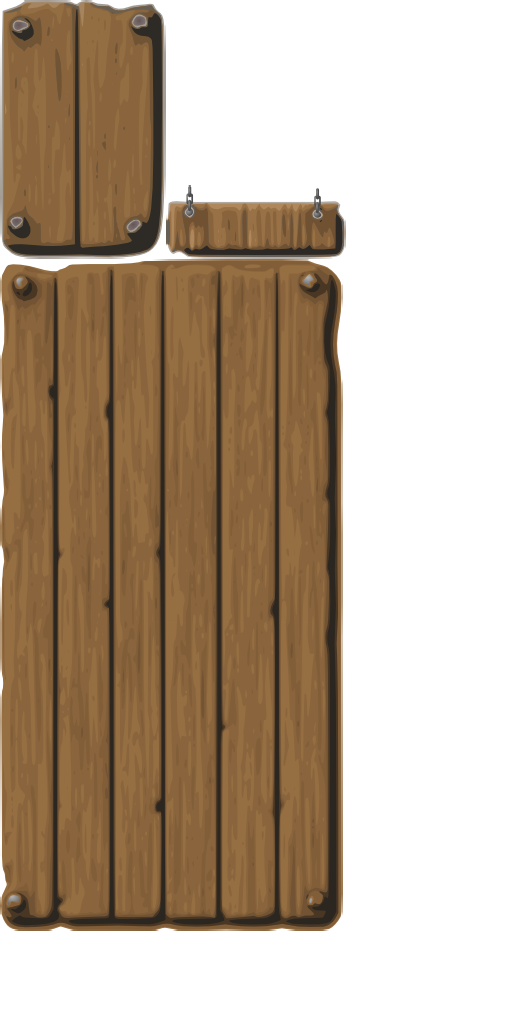
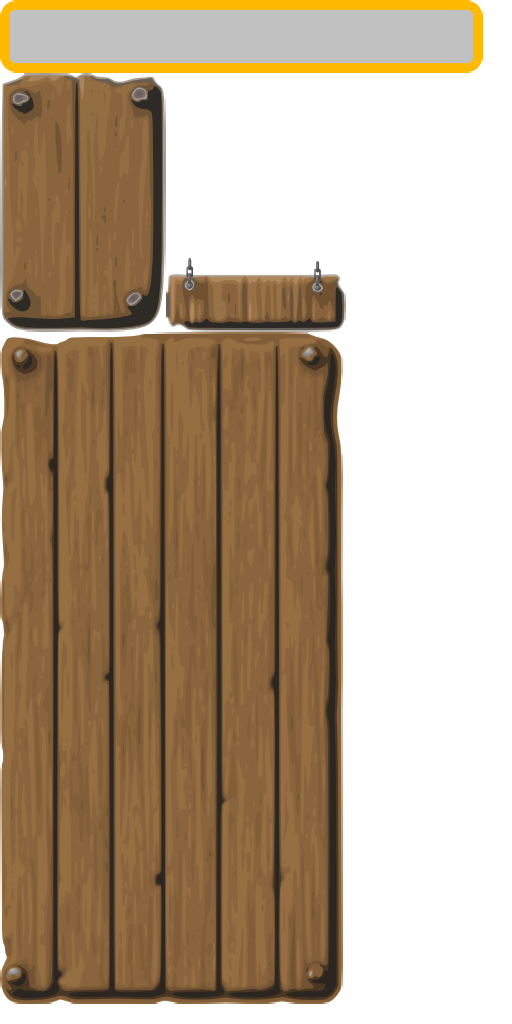
Ajout d'un panel pour afficher les messages en fin de partie. refs #52

diff --git a/puyopuyo-android/src/com/tacoid/puyopuyo/actors/GameOverActor.java b/puyopuyo-android/src/com/tacoid/puyopuyo/actors/GameOverActor.java
@@ -68,11 +68,12 @@ public class GameOverActor extends Group {
 	private Sprite winSprite;
 	private Sprite loseSprite;
 	private Sprite gameOverSprite;
+	private Sprite scorePanelSprite;
 	private GameScreen gameScreen;
 	private SwingMenu menu;
 	private GameOverType type;
 	
-	private int HighScore = 0;
+	private int highScore = 0;
 	private boolean newHighScore = false;
 	private boolean newUnlock = false;
 	
@@ -83,7 +84,7 @@ public class GameOverActor extends Group {
 	
 	
 	public GameOverActor(GameScreen gs, float x, float y) {
-		
+		gameScreen = gs;
 		i18n = I18nManager.getInstance();
 		
 		TextureRegion quitterRegion = PuyoPuyo.getInstance().atlasPlank.findRegion("quitter");
@@ -91,6 +92,11 @@ public class GameOverActor extends Group {
 		winSprite = new Sprite(PuyoPuyo.getInstance().atlasPlank.findRegion("gagne"));
 		loseSprite = new Sprite(PuyoPuyo.getInstance().atlasPlank.findRegion("perdu"));
 		gameOverSprite = new Sprite(PuyoPuyo.getInstance().atlasPlank.findRegion("gameover"));
+		if(gameScreen.getOrientation() == ScreenOrientation.LANDSCAPE) {
+			scorePanelSprite = new Sprite(PuyoPuyo.getInstance().atlasPanelsLandscape.findRegion("score-panel"));
+		} else {
+			scorePanelSprite = new Sprite(PuyoPuyo.getInstance().atlasPanelsPortrait.findRegion("score-panel"));
+		}
 		
 		menu = new SwingMenu(gs.getOrientation());
 		menu.initBegin("gameover");
@@ -104,7 +110,12 @@ public class GameOverActor extends Group {
 		loseSprite.setPosition(x-loseSprite.getWidth()/2, y-loseSprite.getHeight()/2);
 		gameOverSprite.setPosition(x-gameOverSprite.getWidth()/2, y-gameOverSprite.getHeight()/2);
 		
-		gameScreen = gs;
+		if(gameScreen.getOrientation() == ScreenOrientation.LANDSCAPE) {
+			scorePanelSprite.setPosition(x - scorePanelSprite.getWidth() / 2, 450);
+		} else {
+			scorePanelSprite.setPosition(x - scorePanelSprite.getWidth() / 2, 470);
+		}
+		
 		this.type = GameOverType.GAMEOVER;
 		
 		font = PuyoPuyo.getInstance().manager.get("images/font_score.fnt", BitmapFont.class);
@@ -118,9 +129,9 @@ public class GameOverActor extends Group {
 		menu.show("gameover");
 		this.type = type;
 		this.visible = true;
-		this.HighScore = ScoreManager.getInstance().getScore(gameScreen.getGameType());
+		this.highScore = ScoreManager.getInstance().getScore(gameScreen.getGameType());
 		this.newHighScore = false;
-		if(HighScore < gameScreen.getScore() && gameScreen.getGameType() != GameType.VERSUS_IA) {
+		if(highScore < gameScreen.getScore() && gameScreen.getGameType() != GameType.VERSUS_IA) {
 			ScoreManager.getInstance().setScore(gameScreen.getGameType(), gameScreen.getScore());
 			this.newHighScore = true;
 		}
@@ -150,13 +161,13 @@ public class GameOverActor extends Group {
 		super.draw(batch,arg1);
 		if(gameScreen.getOrientation() == ScreenOrientation.LANDSCAPE) {
 			x = 640;
-			y = 450;
+			y = 500;
 		} else {
 			x = 384;
-			y = 500;
+			y = 558;
 		}
-		
 		if (gameScreen.getGameType() != GameType.VERSUS_IA) {
+			scorePanelSprite.draw(batch);
 			font.setScale(0.8f);
 			font.setColor(1f, 1f, 1f, 1f);
 			message =  i18n.getString("score") + String.valueOf(gameScreen.getScore());
@@ -166,10 +177,11 @@ public class GameOverActor extends Group {
 				font.draw(batch, i18n.getString("nouveau_record"), x-font.getBounds(message).width/2, y - 30f);
 			}
 			else {
-				message = i18n.getString("record") + String.valueOf(HighScore);
-				font.draw(batch, i18n.getString("record") + String.valueOf(HighScore), x-font.getBounds(message).width/2,y-30f);
+				message = i18n.getString("record") + String.valueOf(highScore);
+				font.draw(batch, i18n.getString("record") + String.valueOf(highScore), x-font.getBounds(message).width/2,y-30f);
 			}
 		} else if(newUnlock) {
+			scorePanelSprite.draw(batch);
 			String levelname;
 			font.setScale(0.8f);
 			font.setColor(1f, 1f, 1f, 1f);
